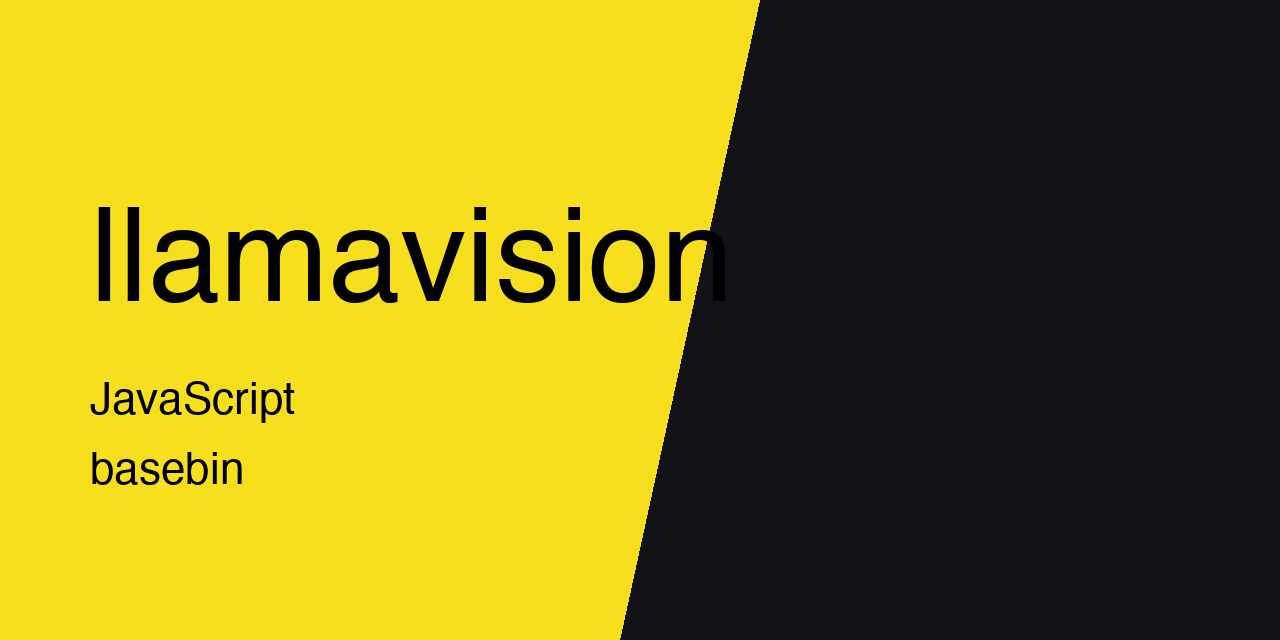
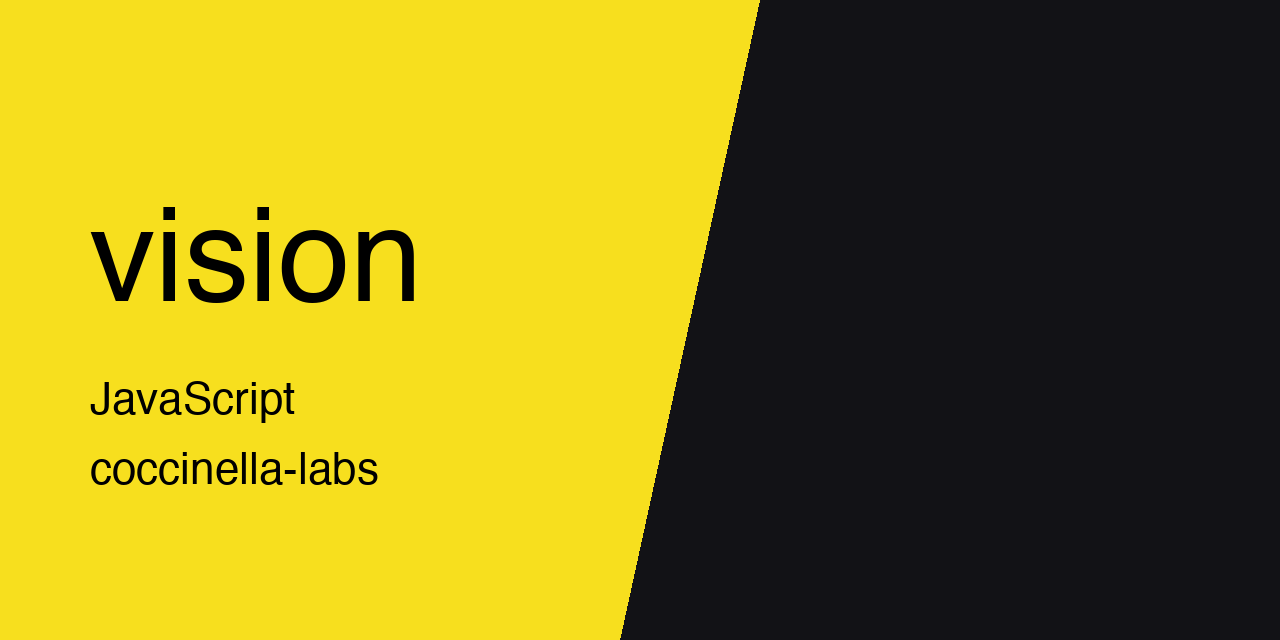
[docs] move thumbnail to coccinella-labs

Changed region(s): [[0.0625, 0.3125, 0.5625, 0.4688], [0.0625, 0.7188, 0.3125, 0.7812]]

diff --git a/README.md b/README.md
@@ -1,4 +1,8 @@
 <p align="center">
+  <img src="https://raw.githubusercontent.com/Coccinella-Labs/vision/main/.github/assets/thumbnail.png" alt="vision" width="100%">
+</p>
+
+<p align="center">
   <img src="https://raw.githubusercontent.com/coccinella-labs/vision/main/.github/assets/thumbnail.png" alt="vision" width="100%">
 </p>
 
